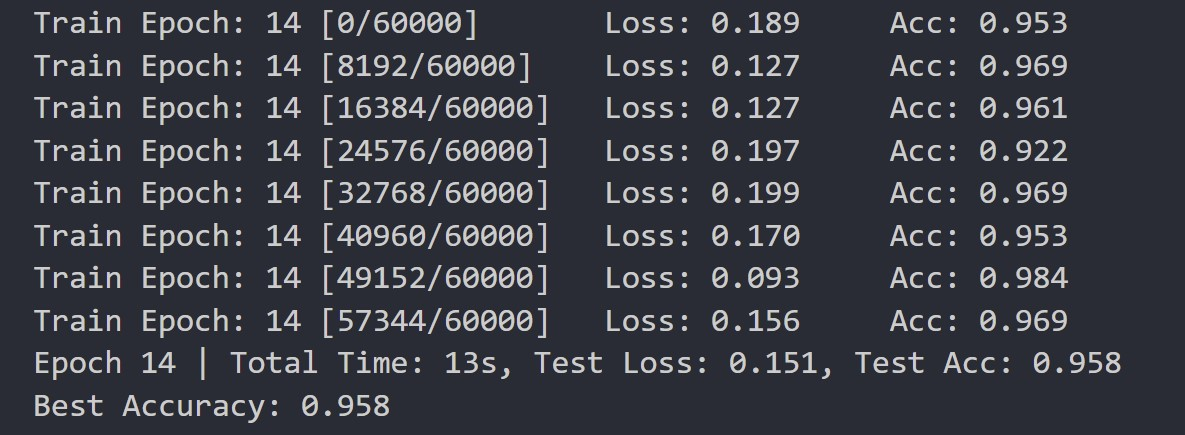
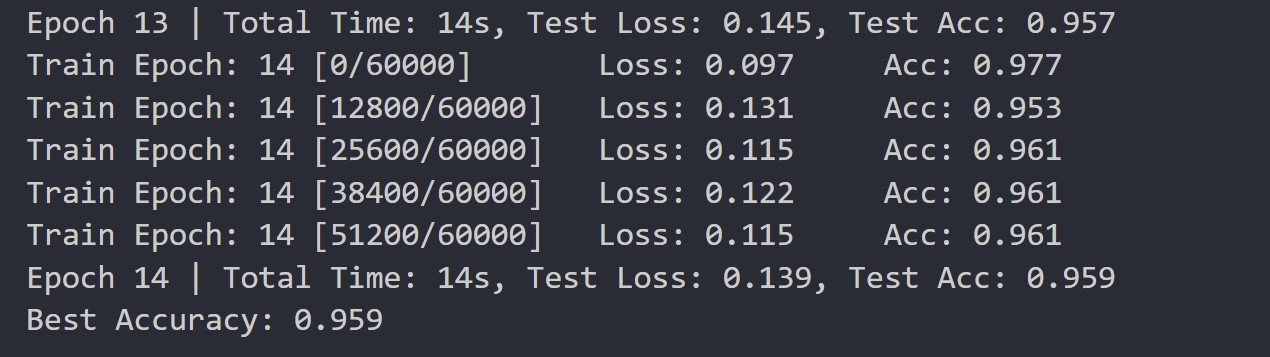
update hw1 report
step2 ce

Changed region(s): [[0.0, 0.1232, 0.9055, 0.5854], [0.0, 0.6162, 0.9679, 0.986], [0.0, 0.0, 0.9055, 0.0924]]

diff --git a/Hw1/hw1_report.md b/Hw1/hw1_report.md
@@ -73,7 +73,7 @@
 
 ![](result/step2_ce_1.jpg)
 
-最后一轮迭代中测试集损失为0.151，准确率为95.8%，最终模型的最佳准确率为95.8%.
+最后一轮迭代中测试集损失为0.139，准确率为95.9%，最终模型的最佳准确率为95.9%.
 
 绘制训练集和测试集上的损失和准确率曲线如下图所示：
 
@@ -107,9 +107,9 @@ loss = criterion.forward(outputs, onehot_encoding(targets, 10))
 ![](result/step2_mse_3.jpg)
 
 ### 训练结果对比
-对比使用MSELoss和BCELoss损失函数时的训练结果，二者结果较为接近，最佳准确率均在95%左右，使用CrossEntropyLoss损失函数相比之下具有略微更好的训练效果。
+对比使用MSELoss和BCELoss损失函数时的训练结果，二者结果较为接近，最佳准确率均在95%左右。相比之下，使用CrossEntropyLoss损失函数获得的最佳准确率高于95%，具有更好的训练效果。
 
-观察两次训练的损失和准确率曲线，均具有较好的收敛性。此外，还发现一个有趣的现象，即两次训练都会在某两次迭代发生损失的骤降和准确率的骤升，其背后原因有待探究。
+观察两次训练的损失和准确率曲线，均具有较好的收敛性，且随着迭代轮数增加，训练集和测试集上的损失和准确率趋同。
 
 ## Step 3: Training with Autograd
 在Step 2 的基础上，使用pytorch 内置的计算图和自动微分框架，即torch.autograd 模块，进行梯度的计算。使用CrossEntropyLoss损失函数训练模型，隐层维度及超参数设置与Step 2相同，得到最后一轮迭代结果如下图所示：
